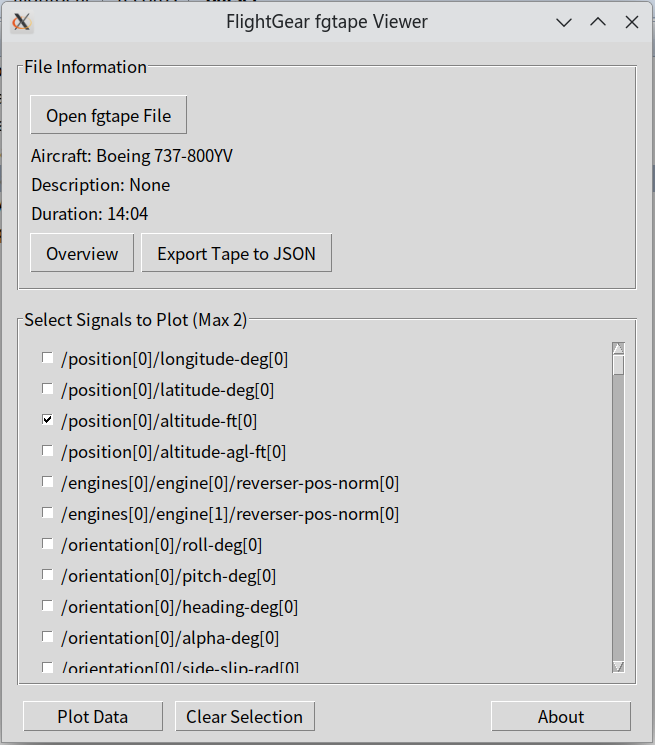
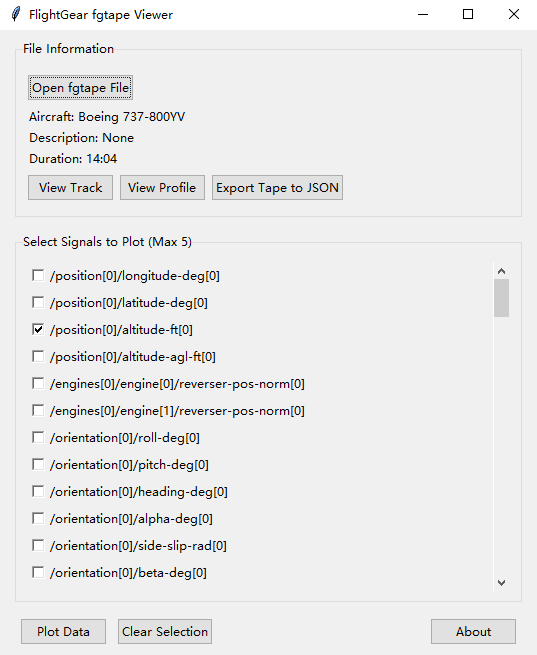
Version 1.0.2

Changed region(s): [[0.0, 0.0, 1.0, 1.0], [0.9236, 0.458, 0.9534, 0.916], [0.8939, 0.3969, 0.9534, 0.458]]

diff --git a/fgtape_viewer.py b/fgtape_viewer.py
@@ -13,7 +13,8 @@ from mpl_toolkits.mplot3d.art3d import Line3DCollection
 from matplotlib.colors import LinearSegmentedColormap, Normalize
 from fgtape_parser import parse_fgtape
 
-__version__ = "1.0.1"
+__version__ = "1.0.2"
+MAX_PLOT_SIGNALS = 5
 
 class FgTapeViewer:
     def __init__(self, root):
@@ -49,13 +50,16 @@ class FgTapeViewer:
         action_frame = ttk.Frame(top_frame)
         action_frame.pack(anchor="w", pady=5)
 
-        self.btn_overview = ttk.Button(action_frame, text="Overview", command=self.plot_overview, state="disabled")
-        self.btn_overview.pack(side="left", padx=(0, 5))
+        self.btn_track = ttk.Button(action_frame, text="View Track", command=self.plot_track, state="disabled")
+        self.btn_track.pack(side="left", padx=(0, 5))
+
+        self.btn_profile = ttk.Button(action_frame, text="View Profile", command=self.plot_profile, state="disabled")
+        self.btn_profile.pack(side="left", padx=(0, 5))
 
         self.btn_export = ttk.Button(action_frame, text="Export Tape to JSON", command=self.export_to_json, state="disabled")
         self.btn_export.pack(side="left")
 
-        mid_frame = ttk.LabelFrame(self.root, text="Select Signals to Plot (Max 2)", padding=10)
+        mid_frame = ttk.LabelFrame(self.root, text=f"Select Signals to Plot (Max {MAX_PLOT_SIGNALS})", padding=10)
         mid_frame.pack(fill="both", expand=True, padx=15, pady=5)
 
         self.canvas = tk.Canvas(mid_frame, highlightthickness=0)
@@ -76,13 +80,13 @@ class FgTapeViewer:
         bottom_frame = ttk.Frame(self.root, padding=(0, 10))
         bottom_frame.pack(fill="x", padx=15)
 
-        self.btn_plot = ttk.Button(bottom_frame, text="Plot Data", width=12, command=self.plot_data, state="disabled")
+        self.btn_plot = ttk.Button(bottom_frame, text="Plot Data", command=self.plot_data, state="disabled")
         self.btn_plot.pack(side="left", padx=5)
 
-        self.btn_clear = ttk.Button(bottom_frame, text="Clear Selection", width=12, command=self.clear_selection, state="disabled")
+        self.btn_clear = ttk.Button(bottom_frame, text="Clear Selection", command=self.clear_selection, state="disabled")
         self.btn_clear.pack(side="left", padx=5)
 
-        self.btn_about = ttk.Button(bottom_frame, text="About", width=12, command=self.show_about)
+        self.btn_about = ttk.Button(bottom_frame, text="About", command=self.show_about)
         self.btn_about.pack(side="right", padx=5)
 
     def load_file_dialog(self):
@@ -142,21 +146,27 @@ class FgTapeViewer:
             cb.pack(fill="x", anchor="w")
 
         if self.signals and self.frames_time:
-            self.btn_overview.config(state="normal")
+            self.btn_track.config(state="normal")
+            self.btn_profile.config(state="normal")
             self.btn_export.config(state="normal")
             self.btn_plot.config(state="normal")
             self.btn_clear.config(state="normal")
         else:
-            self.btn_overview.config(state="disabled")
+            self.btn_track.config(state="disabled")
+            self.btn_profile.config(state="disabled")
             self.btn_export.config(state="disabled")
             self.btn_plot.config(state="disabled")
             self.btn_clear.config(state="disabled")
 
     def handle_checkbox(self, prop_path, var):
         if var.get():
-            if len(self.selected_props) >= 2:
+            if len(self.selected_props) >= MAX_PLOT_SIGNALS:
                 var.set(False)
-                messagebox.showwarning("Limit Reached", "You can select a maximum of 2 data channels at once.")
+                messagebox.showwarning(
+                    "Limit Reached",
+                    f"""A maximum of {MAX_PLOT_SIGNALS} data channels can be selected.
+You can use "Clear Selection" to uncheck them.""",
+                )
             else:
                 self.selected_props.append(prop_path)
         else:
@@ -206,8 +216,8 @@ Source: github.com/container32/fgtape-viewer"""
             print(f"Error occurred while exporting JSON: {e}")
             messagebox.showerror("Export Failed", f"Failed to export JSON:\n{str(e)} ({type(e).__name__})")
 
-    def plot_overview(self):
-        """Draw the whole flight path in 3D (lon/lat/alt), coloured by ground speed."""
+    def plot_track(self):
+        """Draw the whole flight track in 3D (lon/lat/alt), colored by ground speed."""
         d = self.data_series
         pos_keys = (
             "/position[0]/longitude-deg[0]",
@@ -246,7 +256,7 @@ Source: github.com/container32/fgtape-viewer"""
         z = [a * 0.3048 for a in alt_ft]                    # alt,   m (absolute)
 
         fig = plt.figure(figsize=(10, 7))
-        fig.canvas.manager.set_window_title("Flight Path Overview") # type: ignore
+        fig.canvas.manager.set_window_title("Flight Track Overview") # type: ignore
         ax = fig.add_subplot(111, projection="3d")
 
         if speed and any(s > 0 for s in speed):
@@ -289,41 +299,66 @@ Source: github.com/container32/fgtape-viewer"""
 
         ax.view_init(elev=0, azim=-60)
 
-        ax.set_title("Flight Path Overview (Drag to Rotate)")
+        ax.set_title("Flight Track Overview (Drag to Rotate)")
         plt.tight_layout()
         plt.show()
 
-    def plot_data(self):
-        if not self.selected_props:
-            messagebox.showinfo("No Selection", "Please check at least one signal parameter to plot.")
+    def plot_profile(self):
+        keys = [
+            "/position[0]/altitude-ft[0]",
+            "/velocities[0]/airspeed-kt[0]",
+        ]
+        missing = [k for k in keys if k not in self.data_series or not self.data_series[k]]
+        if missing:
+            messagebox.showerror(
+                "Missing Data",
+                "The tape is missing these signals:\n" + "\n".join(missing),
+            )
             return
+        self.plot_data(keys, window_title="Flight Profile Overview")
 
-        if len(self.selected_props) == 1:
-            fig, ax1 = plt.subplots(figsize=(9, 5))
-            prop = self.selected_props[0]
-            ax1.plot(self.frames_time, self.data_series[prop], color="tab:blue", linewidth=1.5)
-            ax1.set_xlabel("Time (seconds)")
-            ax1.set_ylabel(prop, color="tab:blue")
-            ax1.tick_params(axis="y", labelcolor="tab:blue")
-            ax1.grid(True, linestyle="--", alpha=0.6)
-            ax1.set_title(prop)
+    def plot_data(self, props=None, window_title=None):
+        if props is None:
+            if not self.selected_props:
+                messagebox.showinfo("No Selection", "Please check at least one signal parameter to plot.")
+                return
+            props = self.selected_props
+        if window_title is None:
+            window_title = "Signal History"
 
-        elif len(self.selected_props) == 2:
-            fig, ax1 = plt.subplots(figsize=(10, 5))
-            prop1, prop2 = self.selected_props[0], self.selected_props[1]
+        palette = plt.cm.tab10.colors # type: ignore
+        colors = [palette[i % len(palette)] for i in range(len(props))]
+        n = len(props)
 
-            ax1.plot(self.frames_time, self.data_series[prop1], color="tab:blue", label=prop1, linewidth=1.5)
-            ax1.set_xlabel("Time (seconds)")
-            ax1.set_ylabel(prop1, color="tab:blue")
-            ax1.tick_params(axis="y", labelcolor="tab:blue")
-            ax1.grid(True, linestyle="--", alpha=0.6)
+        fig, ax1 = plt.subplots(figsize=(10, 5))
+        fig.canvas.manager.set_window_title(window_title) # type: ignore
+        axes = [ax1]
+        for _ in range(n - 1):
+            axes.append(ax1.twinx())
 
-            ax2 = ax1.twinx()
-            ax2.plot(self.frames_time, self.data_series[prop2], color="tab:orange", label=prop2, linewidth=1.5)
-            ax2.set_ylabel(prop2, color="tab:orange")
-            ax2.tick_params(axis="y", labelcolor="tab:orange")
+        lines = []
+        for prop, ax, color in zip(props, axes, colors):
+            ln, = ax.plot(self.frames_time, self.data_series[prop],
+                          color=color, label=prop, linewidth=1.5)
+            lines.append(ln)
+            ax.set_ylabel(prop, color=color)
+            ax.tick_params(axis="y", labelcolor=color)
 
-            ax1.set_title(f"{prop1} and {prop2}")
+        ax1.set_xlabel("Time (seconds)")
+        ax1.grid(True, linestyle="--", alpha=0.6)
+        if n == 1:
+            ax1.set_title(props[0])
+        else:
+            ax1.set_title(", ".join(prop.split("/")[-1] for prop in props))
+        ax1.legend(lines, [l.get_label() for l in lines], loc="upper right")
+
+        if n > 2:
+            for i in range(1, n):
+                axes[i].spines["right"].set_position(("axes", 1.0 + 0.15 * (i - 1)))
+                axes[i].spines["right"].set_visible(True)
+                axes[i].spines["top"].set_visible(False)
+            fig.subplots_adjust(right=1.0 / (1.0 + 0.15 * (n - 2) + 0.08))
+        else:
             fig.tight_layout()
 
         plt.show()

diff --git a/README.md b/README.md
@@ -1,7 +1,14 @@
 A parser and viewer for the fgtape format. It can visualize the flight path and other data in a tape, and export tapes to JSON. Both normal and continuous tape formats are supported.
 
+### Features
+- 3D flight path and one-click flight profile view.
+- Overlay up to 5 signals on a shared time axis, each on its own y-axis.
+- Export any loaded tape to JSON, and launch from the command line.
+- Multi-platform support: Windows, macOS, and Linux.
+
 ### Installation
-Windows users can download the PyInstaller-packaged executable directly from the [latest release](https://github.com/container32/fgtape-viewer/releases/latest).  
+Windows users can download the PyInstaller-packaged executable directly from the [latest release](https://github.com/container32/fgtape-viewer/releases/latest).
+
 Or clone the repository:
 ```bash
 git clone https://github.com/container32/fgtape-viewer
@@ -19,6 +26,8 @@ After opening an fgtape file, click **Overview** to view the whole flight path. 
 Run from the repository root:
 ```bash
 ./fgtape_parser.py tape.fgtape -o out.json
+./fgtape_viewer.py
+# or
 ./fgtape_viewer.py tape.fgtape
 ```
 
